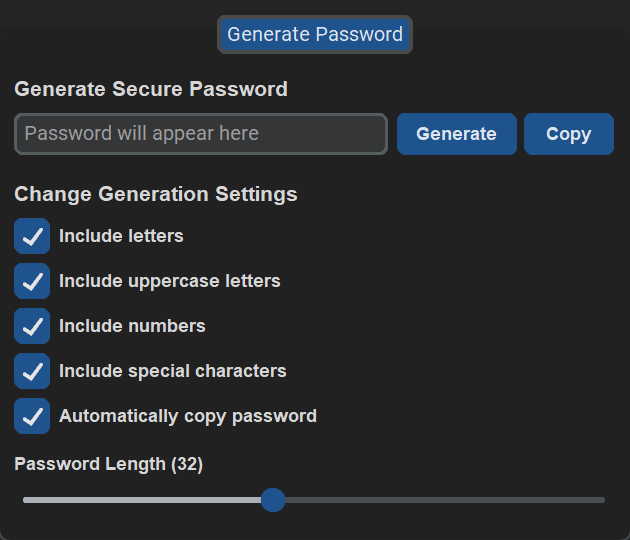
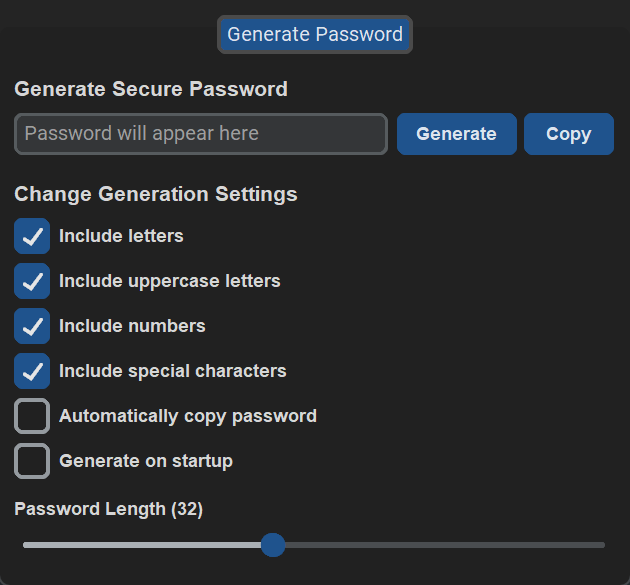
feat: add feature for automatically generating password on start

Changed region(s): [[0.0, 0.0296, 0.9952, 0.8889], [0.0302, 0.8889, 0.9651, 0.9481]]

diff --git a/src/ui/main.py b/src/ui/main.py
@@ -65,6 +65,9 @@ def renderSettingsSection(
     automaticCopyCheckbox = CTkCheckBox(
         root, text="Automatically copy password", font=("Arial", 12, "bold")
     )
+    autoGenerateCheckbox = CTkCheckBox(
+        root, text="Generate on startup", font=("Arial", 12, "bold")
+    )
     passwordLengthHeading = CTkLabel(
         root, text="Password Length", font=("Arial", 12, "bold")
     )
@@ -78,8 +81,9 @@ def renderSettingsSection(
     toggleNumbersCheckbox.place(x=0, y=160)
     toggleSpecialsCheckbox.place(x=0, y=190)
     automaticCopyCheckbox.place(x=0, y=220)
-    passwordLengthHeading.place(x=0, y=250)
-    passwordLengthSlider.place(x=0, y=280)
+    autoGenerateCheckbox.place(x=0, y=250)
+    passwordLengthHeading.place(x=0, y=280)
+    passwordLengthSlider.place(x=0, y=310)
 
     return (
         changeSettingsHeading,
@@ -88,6 +92,7 @@ def renderSettingsSection(
         toggleNumbersCheckbox,
         toggleSpecialsCheckbox,
         automaticCopyCheckbox,
+        autoGenerateCheckbox,
         passwordLengthHeading,
         passwordLengthSlider,
     )
@@ -108,6 +113,7 @@ def renderMainTab(root) -> None:
         toggleNumbersCheckbox,
         toggleSpecialsCheckbox,
         automaticCopyCheckbox,
+        autoGenerateCheckbox,
         passwordLengthHeading,
         passwordLengthSlider,
     ) = renderSettingsSection(root)
@@ -143,6 +149,7 @@ def renderMainTab(root) -> None:
         toggleNumbersCheckbox,
         toggleSpecialsCheckbox,
         automaticCopyCheckbox,
+        autoGenerateCheckbox,
         passwordLengthSlider,
     ]
 
@@ -161,3 +168,9 @@ def renderMainTab(root) -> None:
             settings=localSettings,
             settingsElements=settingsElements,
         )
+
+    if autoGenerateCheckbox.get():
+        print(passwordLengthSlider.get())
+        generatePassword(passwordOuputBox, *settingsElements)
+        if automaticCopyCheckbox.get():
+            copyGeneratedPassword(passwordOuputBox)

diff --git a/src/util/settings.py b/src/util/settings.py
@@ -23,6 +23,7 @@ def loadSettingsData():
             "includeNumbers": True,
             "includeSymbols": True,
             "autoCopy": False,
+            "autoGenerate": False,
             "length": 32,
         }
 
@@ -35,6 +36,7 @@ def loadSettings(settings):
         settings["includeNumbers"],
         settings["includeSymbols"],
         settings["autoCopy"],
+        settings["autoGenerate"],
         settings["length"],
     ) = (
         data["includeLetters"],
@@ -42,6 +44,7 @@ def loadSettings(settings):
         data["includeNumbers"],
         data["includeSymbols"],
         data["autoCopy"],
+        data["autoGenerate"],
         data["length"],
     )
 
@@ -53,6 +56,7 @@ def setSettings(
     includeNumbers: CTkCheckBox,
     includeSymbols: CTkCheckBox,
     autoCopy: CTkCheckBox,
+    autoGenerate: CTkCheckBox,
     outputLength: CTkSlider,
 ):
     includeLetters.select() if settings["includeLetters"] else includeLetters.deselect()
@@ -62,6 +66,7 @@ def setSettings(
     includeNumbers.select() if settings["includeNumbers"] else includeNumbers.deselect()
     includeSymbols.select() if settings["includeSymbols"] else includeSymbols.deselect()
     autoCopy.select() if settings["autoCopy"] else autoCopy.deselect()
+    autoGenerate.select() if settings["autoGenerate"] else autoGenerate.deselect()
     outputLength.set(settings["length"])
 
 
@@ -72,6 +77,7 @@ def saveSettings(
     includeNumbers: CTkCheckBox,
     includeSymbols: CTkCheckBox,
     autoCopy: CTkCheckBox,
+    autoGenerate: CTkCheckBox,
     outputLength: CTkSlider,
 ):
     settings["includeLetters"] = includeLetters.get()
@@ -79,6 +85,7 @@ def saveSettings(
     settings["includeNumbers"] = includeNumbers.get()
     settings["includeSymbols"] = includeSymbols.get()
     settings["autoCopy"] = autoCopy.get()
+    settings["autoGenerate"] = autoGenerate.get()
     settings["length"] = int(outputLength.get())
 
     saveSettingsData(settings)

diff --git a/src/util/misc.py b/src/util/misc.py
@@ -40,7 +40,7 @@ def generatePassword(box: CTkEntry, *settingsElements) -> None:
     useNumber = settingsElements[2].get()
     useSymbols = settingsElements[3].get()
     autoCopy = settingsElements[4].get()
-    length = int(settingsElements[5].get())
+    length = int(settingsElements[6].get())
 
     if not any([useLetters, useUppercase, useNumber, useSymbols]):
         AlertPopup("Please select at least one type of character to include.")
@@ -57,6 +57,7 @@ def generatePassword(box: CTkEntry, *settingsElements) -> None:
         characters += "!@#$%^&*()_+-=[]{}|;':\",./<>?`~"
 
     password = "".join(random.choices(characters, k=length))
+    console.print(length)
 
     box.insert(0, password)
 

diff --git a/src/main.py b/src/main.py
@@ -12,7 +12,7 @@ console = Console()
 def configureApp():
     app = CTk()
 
-    app.geometry("420x360")
+    app.geometry("420x390")
     app.title("Secure Password Generator")
     app.resizable(False, False)
     app.bind("<Escape>", lambda event: closeApp(app, event=event))
